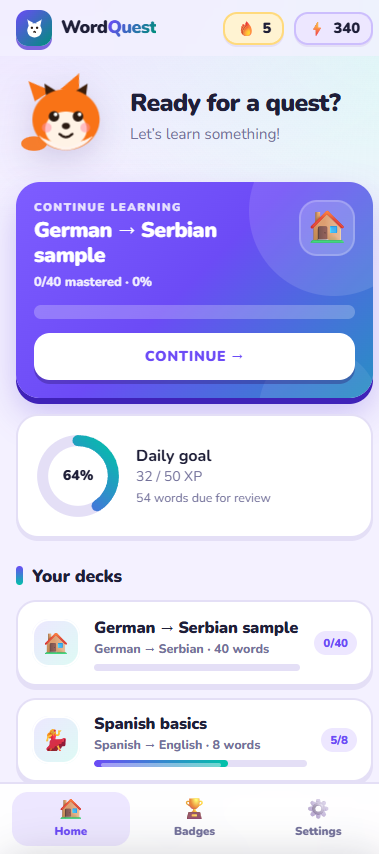
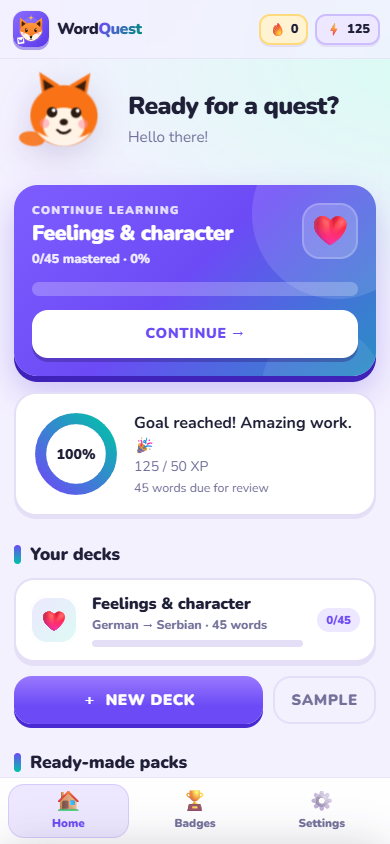
Polish navigation and mobile layout

diff --git a/src/styles/screens.css b/src/styles/screens.css
@@ -64,7 +64,7 @@
 /* decks -------------------------------------------------------------------- */
 .decklist{display:grid;gap:12px}
 .deckcard{
-  display:flex;align-items:center;gap:14px;text-align:left;width:100%;
+  display:flex;align-items:center;gap:14px;text-align:left;width:100%;min-width:0;
   background:var(--card);border:2px solid var(--border);border-radius:20px;
   padding:13px 14px;cursor:pointer;font:inherit;color:inherit;
   box-shadow:0 4px 0 var(--border);
@@ -157,7 +157,7 @@
 body.in-session{padding-bottom:0}
 body.in-session .topbar{display:none}
 .screen--session{padding-top:0}
-.screen--session.is-active{display:flex;flex-direction:column;min-height:100dvh;padding:0 0 14px}
+.screen--session.is-active{display:flex;flex-direction:column;min-height:100dvh;padding:0 0 calc(14px + env(safe-area-inset-bottom))}
 .sessionbar{display:flex;align-items:center;gap:12px;padding:12px 0 16px;flex:none}
 .sessionbar .icon-btn{width:38px;height:38px;flex:0 0 38px;font-size:1rem;border-radius:12px}
 .sessionbar .bar{height:16px}
@@ -397,13 +397,54 @@ body.in-session .topbar{display:none}
 .sr-only{position:absolute;width:1px;height:1px;padding:0;margin:-1px;overflow:hidden;clip:rect(0 0 0 0);white-space:nowrap;border:0}
 
 /* --------------------------------------------------------- 10 responsive */
+@media(max-width:719px){
+  /* Fixed gradient backgrounds repaint on every scroll on mobile Safari. */
+  body{background-attachment:scroll}
+}
 @media(min-width:720px){
+  body{padding-bottom:calc(108px + env(safe-area-inset-bottom))}
   #app{padding:0 22px}
+  .topbar{
+    top:12px;margin:14px auto 4px;padding:7px 10px;
+    border:1px solid color-mix(in srgb, var(--border) 88%, transparent);
+    border-radius:22px;
+    background:color-mix(in srgb, var(--card) 82%, transparent);
+    box-shadow:var(--nav-shadow), var(--nav-highlight);
+  }
+  .brand{padding:3px 10px 3px 3px}
+  .brand__mark{width:42px;height:42px;border-radius:13px}
+  .brand__word{font-size:1.2rem}
+  .pill{padding:7px 12px;border-radius:13px;box-shadow:0 2px 0 var(--border), var(--nav-highlight)}
+  .tabbar{
+    left:50%;right:auto;bottom:calc(18px + env(safe-area-inset-bottom));
+    width:max-content;max-width:calc(100vw - 32px);
+    padding:7px;gap:6px;transform:translateX(-50%);
+    border:1px solid color-mix(in srgb, var(--border) 88%, transparent);
+    border-radius:22px;
+    background:color-mix(in srgb, var(--card) 88%, transparent);
+    box-shadow:var(--nav-shadow), var(--nav-highlight);
+  }
+  .tabbar button{
+    flex:0 0 auto;min-width:142px;max-width:none;min-height:48px;
+    display:flex;align-items:center;justify-content:center;gap:8px;
+    padding:10px 18px;border-radius:16px;font-size:.82rem;
+  }
+  .tabbar button i{font-size:1.2rem}
   h1{font-size:2rem}
   .hero h1{font-size:1.9rem}
   .qword{font-size:2.6rem}
   .mascot{width:132px;height:132px;flex-basis:132px}
   .hero .mascot{width:136px;height:136px;flex-basis:136px}
+}
+@media(max-width:420px){
+  #app{padding:0 14px}
+  .topbar{gap:7px;padding-left:max(10px, env(safe-area-inset-left));padding-right:max(10px, env(safe-area-inset-right))}
+  .brand{gap:8px;padding-right:3px}
+  .brand__mark{width:36px;height:36px;border-radius:11px}
+  .brand__word{font-size:1rem}
+  .pill{padding:4px 8px;border-radius:11px;font-size:.8rem;gap:4px;box-shadow:0 2px 0 var(--border)}
+  .tabbar{padding:6px max(8px, env(safe-area-inset-right)) calc(6px + env(safe-area-inset-bottom)) max(8px, env(safe-area-inset-left))}
+  .tabbar button{min-height:52px}
 }
 @media(max-width:400px){
   h1{font-size:1.5rem}
@@ -412,5 +453,12 @@ body.in-session .topbar{display:none}
   .mem{min-height:80px;font-size:.81rem}
   .mascot{width:96px;height:96px;flex-basis:96px}
   .deckcard__av{width:48px;height:48px;flex-basis:48px;font-size:1.4rem}
+}
+@media(max-width:360px){
+  .brand__word{font-size:.94rem}
+  .pill{font-size:.76rem;padding:4px 7px}
+}
+@media(max-width:600px){
+  .preview-table input{font-size:16px}
 }
 

diff --git a/src/styles/base.css b/src/styles/base.css
@@ -42,12 +42,14 @@
   --shadow:0 2px 0 var(--border);
   --shadow-lg:0 18px 44px rgba(31,31,56,.18);
   --ring:0 0 0 4px rgba(108,75,246,.28);
+  --nav-shadow:0 12px 30px rgba(31,31,56,.12), 0 2px 0 var(--border);
+  --nav-highlight:inset 0 1px 0 rgba(255,255,255,.68);
 }
 
 /* ------------------------------------------------------------------ 2 base */
 *{box-sizing:border-box}
 html,body{margin:0;padding:0}
-html{-webkit-text-size-adjust:100%}
+html{-webkit-text-size-adjust:100%;scroll-padding-top:92px}
 body{
   font-family:'Nunito',system-ui,-apple-system,'Segoe UI',Roboto,'Helvetica Neue',sans-serif;
   background:var(--bg);
@@ -76,6 +78,7 @@ p{margin:0 0 10px;line-height:1.55}
 .grow{flex:1}
 .hidden,[hidden]{display:none !important}
 :focus-visible{outline:3px solid var(--brand);outline-offset:3px;border-radius:10px}
+button{touch-action:manipulation}
 ::-webkit-scrollbar{height:10px;width:10px}
 ::-webkit-scrollbar-thumb{background:var(--border-strong);border-radius:10px}
 
@@ -84,27 +87,31 @@ p{margin:0 0 10px;line-height:1.55}
 .topbar{
   position:sticky;top:0;z-index:40;
   display:flex;align-items:center;gap:10px;
-  padding:10px 16px;
+  padding:calc(8px + env(safe-area-inset-top)) max(14px, env(safe-area-inset-right)) 8px max(14px, env(safe-area-inset-left));
   max-width:860px;margin:0 auto;
-  backdrop-filter:blur(16px);
-  -webkit-backdrop-filter:blur(16px);
-  background:color-mix(in srgb, var(--bg) 72%, transparent);
+  backdrop-filter:blur(18px) saturate(1.2);
+  -webkit-backdrop-filter:blur(18px) saturate(1.2);
+  background:color-mix(in srgb, var(--bg) 78%, transparent);
+  border-bottom:1px solid color-mix(in srgb, var(--border) 72%, transparent);
 }
 .brand{
-  display:flex;align-items:center;gap:9px;font-weight:900;font-size:1.12rem;letter-spacing:-.03em;
-  border:0;background:transparent;padding:0;margin:0;cursor:pointer;color:var(--text);font-family:inherit;
+  display:flex;align-items:center;gap:10px;font-weight:900;font-size:1.12rem;letter-spacing:-.03em;
+  border:0;background:transparent;padding:3px 6px 3px 3px;margin:0;cursor:pointer;color:var(--text);
+  font-family:inherit;border-radius:14px;min-width:0;
+  transition:background .18s ease;
 }
-.brand:hover .brand__mark{transform:rotate(-8deg) scale(1.08)}
-.brand:active .brand__mark{transform:scale(.92)}
-.brand:focus-visible{outline-offset:5px;border-radius:12px}
+.brand:hover{background:color-mix(in srgb, var(--card) 70%, transparent)}
+.brand:hover .brand__mark{transform:rotate(-4deg) scale(1.045)}
+.brand:active .brand__mark{transform:scale(.94)}
+.brand:focus-visible{outline-offset:3px;border-radius:12px}
 .brand__mark{
-  width:36px;height:36px;border-radius:12px;flex:none;display:grid;place-items:center;
-  background:linear-gradient(135deg,var(--brand),var(--mark-end));
-  color:#fff;box-shadow:0 4px 0 color-mix(in srgb,var(--brand-dark) 70%, transparent);
+  width:38px;height:38px;border-radius:12px;flex:none;display:grid;place-items:center;
+  background:var(--card);overflow:hidden;
+  box-shadow:0 3px 0 color-mix(in srgb,var(--brand-dark) 42%, transparent), 0 0 0 1px color-mix(in srgb,var(--border) 55%, transparent);
   transition:transform .2s cubic-bezier(.3,1.6,.5,1);
 }
-.brand__mark svg{width:23px;height:23px;display:block}
-.brand__word{display:inline-block;line-height:1}
+.brand__mark img{width:100%;height:100%;display:block;object-fit:cover}
+.brand__word{display:inline-block;line-height:1;white-space:nowrap}
 .brand__word em{font-style:normal;color:var(--brand)}
 @supports ((-webkit-background-clip:text) or (background-clip:text)){
   .brand__word em{

diff --git a/src/styles/presets.css b/src/styles/presets.css
@@ -4,20 +4,20 @@
    themes without new colours.
    ========================================================================== */
 
-.packs{margin-top:26px}
+.packs{margin-top:26px;scroll-margin-top:92px}
 .packs__head{display:flex;align-items:flex-end;justify-content:space-between;gap:12px;flex-wrap:wrap}
 .packs__head h2{margin:0}
 .packs__tools{display:flex;gap:10px;align-items:center;margin:12px 0 10px;flex-wrap:wrap}
 .packs__tools input[type="search"]{
   flex:1 1 220px;min-width:180px;padding:11px 14px;border-radius:14px;
-  border:1.5px solid var(--line);background:var(--card);color:var(--text);
+  border:1.5px solid var(--border);background:var(--card);color:var(--text);
   font:inherit;font-weight:600
 }
 .packs__tools input[type="search"]:focus{outline:none;border-color:var(--brand);box-shadow:0 0 0 3px var(--brand-soft)}
-.chips{display:flex;gap:8px;overflow-x:auto;padding:2px 0 6px;scrollbar-width:none}
+.chips{display:flex;gap:8px;overflow-x:auto;padding:2px 0 6px;scrollbar-width:none;overscroll-behavior-x:contain;-webkit-overflow-scrolling:touch}
 .chips::-webkit-scrollbar{display:none}
 .chip{
-  flex:0 0 auto;padding:8px 13px;border-radius:999px;border:1.5px solid var(--line);
+  flex:0 0 auto;padding:8px 13px;border-radius:999px;border:1.5px solid var(--border);
   background:var(--card);color:var(--muted);font:inherit;font-weight:700;font-size:.82rem;cursor:pointer;
   transition:transform .15s, background .15s, color .15s, border-color .15s
 }
@@ -26,8 +26,8 @@
 .packs__grid{display:grid;gap:12px;grid-template-columns:repeat(auto-fill,minmax(230px,1fr))}
 .packcard{
   display:flex;flex-direction:column;gap:8px;text-align:left;padding:14px;border-radius:18px;
-  border:1.5px solid var(--line);background:var(--card);color:var(--text);font:inherit;cursor:pointer;
-  box-shadow:var(--shadow-sm, 0 2px 10px rgba(30,20,60,.06));
+  border:1.5px solid var(--border);background:var(--card);color:var(--text);font:inherit;cursor:pointer;
+  box-shadow:0 3px 0 var(--border);
   transition:transform .16s, border-color .16s, box-shadow .16s
 }
 .packcard:hover{border-color:var(--brand);transform:translateY(-2px)}

diff --git a/src/styles/components.css b/src/styles/components.css
@@ -105,19 +105,19 @@ label.field>span,.fieldlabel{
 .tabbar{
   position:fixed;left:0;right:0;bottom:0;z-index:40;
   display:flex;justify-content:center;gap:6px;
-  padding:8px 12px calc(8px + env(safe-area-inset-bottom));
+  padding:8px max(10px, env(safe-area-inset-right)) calc(8px + env(safe-area-inset-bottom)) max(10px, env(safe-area-inset-left));
   background:color-mix(in srgb, var(--card) 94%, transparent);
-  backdrop-filter:blur(18px);-webkit-backdrop-filter:blur(18px);
-  border-top:2px solid var(--border);
+  backdrop-filter:blur(18px) saturate(1.2);-webkit-backdrop-filter:blur(18px) saturate(1.2);
+  border-top:1px solid color-mix(in srgb, var(--border) 78%, transparent);
 }
 .tabbar button{
-  flex:1;max-width:190px;border:0;background:transparent;color:var(--muted);
+  flex:1;max-width:190px;min-height:54px;border:0;background:transparent;color:var(--muted);
   font:inherit;font-weight:900;font-size:.72rem;display:grid;gap:3px;justify-items:center;
-  padding:7px 4px;border-radius:16px;cursor:pointer;
-  transition:background .18s, color .18s, transform .12s;
+  padding:7px 4px;border-radius:16px;cursor:pointer;touch-action:manipulation;
+  transition:background .18s, color .18s, transform .12s, box-shadow .18s;
 }
 .tabbar button i{font-style:normal;font-size:1.3rem;line-height:1;transition:transform .2s}
-.tabbar button[aria-current="page"]{color:var(--brand);background:var(--brand-soft)}
+.tabbar button[aria-current="page"]{color:var(--brand);background:var(--brand-soft);box-shadow:inset 0 0 0 1px color-mix(in srgb,var(--brand) 18%, transparent)}
 .tabbar button[aria-current="page"] i{animation:tabPop .42s cubic-bezier(.3,1.6,.4,1)}
 .tabbar button:active{transform:scale(.95)}
 @keyframes tabPop{0%{transform:scale(.8) rotate(-8deg)}60%{transform:scale(1.16) rotate(4deg)}100%{transform:scale(1) rotate(0)}}

diff --git a/index.html b/index.html
@@ -11,6 +11,9 @@
 <link rel="apple-touch-icon" href="./icons/apple-touch-icon.png">
 <link rel="manifest" href="./site.webmanifest">
 <meta name="application-name" content="WordQuest">
+<meta name="mobile-web-app-capable" content="yes">
+<meta name="apple-mobile-web-app-capable" content="yes">
+<meta name="apple-mobile-web-app-title" content="WordQuest">
 <link rel="preconnect" href="https://fonts.googleapis.com">
 <link rel="preconnect" href="https://fonts.gstatic.com" crossorigin>
 <link href="https://fonts.googleapis.com/css2?family=Nunito:wght@400;600;700;800;900&display=swap" rel="stylesheet">
@@ -23,14 +26,7 @@
   <button class="icon-btn hidden" id="btnBack" data-i18n-aria="nav.back" aria-label="Go back">←</button>
   <button class="brand" id="brandHome" type="button" data-i18n-aria="nav.homeHint" aria-label="WordQuest — go to home">
     <span class="brand__mark" aria-hidden="true">
-      <svg viewBox="0 0 24 24">
-        <path d="M6 9.7 4.6 2.8l6.4 3.5Z" fill="currentColor"/>
-        <path d="M18 9.7 19.4 2.8l-6.4 3.5Z" fill="currentColor"/>
-        <path d="M12 21.4c-4.4 0-7.6-3.3-7.6-7.5 0-4.2 3.2-7.4 7.6-7.4s7.6 3.2 7.6 7.4c0 4.2-3.2 7.5-7.6 7.5Z" fill="currentColor"/>
-        <circle cx="9.3" cy="11.3" r="1.2" fill="#2A1A12"/>
-        <circle cx="14.7" cy="11.3" r="1.2" fill="#2A1A12"/>
-        <ellipse cx="12" cy="15.3" rx="1.15" ry=".9" fill="#2A1A12"/>
-      </svg>
+      <img src="./icons/icon.svg" alt="" width="42" height="42" decoding="async">
     </span>
     <span class="brand__word">Word<em>Quest</em></span>
   </button>

diff --git a/src/styles/themes.css b/src/styles/themes.css
@@ -36,6 +36,8 @@
   --shadow:0 2px 0 var(--border);
   --shadow-lg:0 18px 44px rgba(0,0,0,.6);
   --ring:0 0 0 4px rgba(142,116,255,.35);
+  --nav-shadow:0 16px 38px rgba(0,0,0,.42), 0 2px 0 var(--border);
+  --nav-highlight:inset 0 1px 0 rgba(255,255,255,.06);
 }
 
 /* ------------------------------------------- 10b dark-mode contrast fixes */
